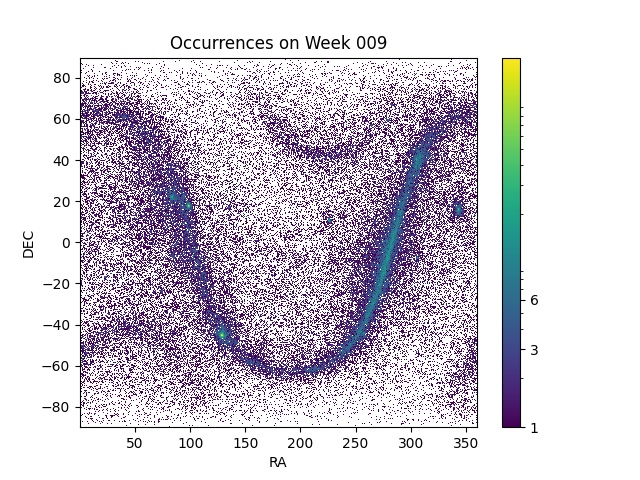
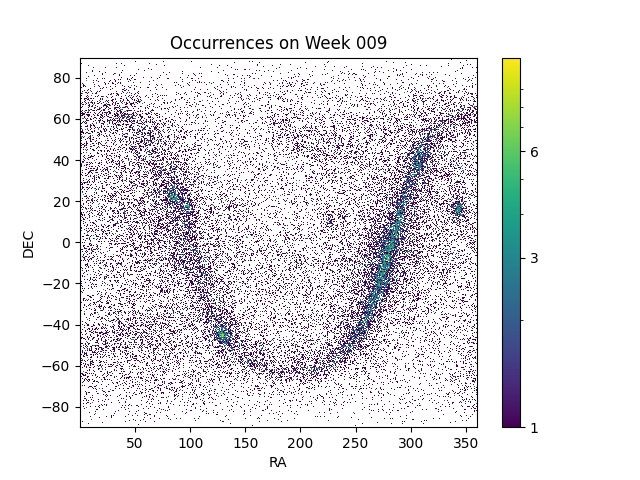
FINAL STUFFS!!!!

diff --git a/astronomy.py b/astronomy.py
@@ -109,7 +109,7 @@ def procedural_gen_full(start_week, end_week, energy_start, energy_end):
         #myTable.remove_rows()
         full_evt_data.append(my_table)  # add opened table to collection
         hist_plot_occurrences(my_table, i,my_weights)
-        energy_hist(my_table, i,my_weights)
+        energy_hist(my_table, i, my_weights)
     # now that those are done, we can do it for the full image
     concat_table = vstack(full_evt_data)
     hist_plot_occurrences(concat_table, -1,full_weights)
@@ -128,66 +128,75 @@ def hist_plot_occurrences(evt_data, i, my_weights):
     img_zero_mpl = plt.hist2d(evt_data['RA'][ii], evt_data['DEC'][ii], nbins, cmap='viridis', norm=LogNorm(), weights=np.ceil(np.tanh(my_weights)))
     cbar = plt.colorbar(ticks=[1.0, 3.0, 6.0])
     cbar.ax.set_yticklabels(['1', '3', '6'])
-    if i < 0:
-        save_title = f"OccurrenceWeighted_RADEC_weeks_{int_to_string(start_week)}_to_{int_to_string(end_week)}"
-        plt.title(f"Occurrence Weighted Time Averaged from week {int_to_string(my_start_week)} to {int_to_string(my_end_week)}")
-    else:
-        save_title = f"OccurrenceWeighted_RADEC_week_{int_to_string(i)}"
-        plt.title("Occurrence Weighted - week " + int_to_string(i))
     plt.xlabel('RA')
     plt.ylabel('DEC')
-    plt.savefig(fname=str(Path().absolute())+f"\\outputs\\{save_title}.svg",format='svg')
-    #plt.show()
+    if i < 0:
+        save_title = f"Occurrence-RADEC-weeks-{int_to_string(start_week)}-to-{int_to_string(end_week)}"
+        plt.title(f"Occurrences on Weeks{int_to_string(my_start_week)} to {int_to_string(my_end_week)}")
+        plt.savefig(fname=str(Path().absolute()) + f"\\Occurrence-avgs\\{save_title}.jpg", format='jpg')
+    else:
+        save_title = f"Occurrence-RADEC-week-{int_to_string(i)}"
+        plt.title("Occurrences on Week " + int_to_string(i))
+        plt.savefig(fname=str(Path().absolute()) + f"\\Occurrence-singles\\{save_title}.jpg", format='jpg')
+    plt.show()
+
     fig, ax = plt.subplots(1)
     img_one_mpl = plt.hist2d(evt_data['L'][ii], evt_data['B'][ii], nbins, cmap='viridis', norm=LogNorm(), weights=np.ceil(np.tanh(my_weights)))
     cbar = plt.colorbar(ticks=[1.0, 3.0, 6.0])
     cbar.ax.set_yticklabels(['1', '3', '6'])
-    if i < 0:
-        save_title = f"OccurrenceWeighted_LB_weeks_{int_to_string(start_week)}_to_{int_to_string(end_week)}"
-        plt.title(f"Occurrence Weighted Time from week {int_to_string(start_week)} to {int_to_string(end_week)}")
-    else:
-        save_title = f"OccurrenceWeighted_LB_week_{int_to_string(i)}"
-        plt.title("Occurrence Weighted - week" + int_to_string(i))
     plt.xlabel('L')
     plt.ylabel('B')
-    plt.savefig(fname=str(Path().absolute()) + f"\\outputs\\{save_title}.svg", format='svg')
-    #plt.show()
+    if i < 0:
+        save_title = f"Occurrence-LB-weeks-{int_to_string(start_week)}-to-{int_to_string(end_week)}"
+        plt.title(f"OccurrenceWeeks: {int_to_string(start_week)}-to-{int_to_string(end_week)}")
+        plt.savefig(fname=str(Path().absolute()) + f"\\Occurrence-avgs\\{save_title}.jpg", format='jpg')
+    else:
+        save_title = f"Occurrence-LB-week-{int_to_string(i)}"
+        plt.title("Occurrences on Week " + int_to_string(i))
+        plt.savefig(fname=str(Path().absolute()) + f"\\Occurrence-singles\\{save_title}.jpg", format='jpg')
+    #plt.savefig(fname=str(Path().absolute()) + f"\\outputs\\{save_title}.svg", format='svg')
+    plt.show()
 
 
 def energy_hist(evt_data, i, my_weights):
     # uses the sum of energy to create a scatter plot with the scaling being the current event_data/sum
-    sum_energy = sum(evt_data['ENERGY'])
+    sum_energy = sum(my_weights)
     # print (sum_energy)
     nbins = (500, 500)
     fig, ax = plt.subplots(1)
     ii = np.in1d(evt_data['CONVERSION_TYPE'], [0, 1])
     img_two_mpl = plt.hist2d(evt_data['RA'][ii], evt_data['DEC'][ii],nbins,cmap='cividis', weights=my_weights/sum_energy, norm=LogNorm())
-    # cbar = plt.colorbar(ticks=[1.0, 3.0, 6.0])
-    # cbar.ax.set_yticklabels(['1', '3', '6'])
-    if i < 0:
-        save_title = f"EnergyWeighted_RADEC_weeks_{int_to_string(start_week)}_to_{int_to_string(end_week)}"
-        plt.title(save_title := f"Energy Weighted Averaged from week {int_to_string(start_week)} to {int_to_string(end_week)}")
-    else:
-        save_title = f"OccurrenceWeighted_RADEC_week_{int_to_string(i)}"
-        plt.title(save_title := "Energy Weighted - week" + int_to_string(i))
+    cbar = plt.colorbar(ticks=[1.0, 3.0, 6.0])
+    cbar.ax.set_yticklabels(['1', '3', '6'])
     plt.xlabel('RA')
     plt.ylabel('DEC')
-    plt.savefig(fname=str(Path().absolute()) + f"\\outputs\\{save_title}.svg", format='svg')
-    #plt.show()
+    if i < 0:
+        print("Making RADEC averages for energy")
+        save_title = f"Energy-RADEC-weeks-{int_to_string(start_week)}-to-{int_to_string(end_week)}"
+        plt.title(f"Energy Weighted Averaged Weeks: {int_to_string(start_week)} to {int_to_string(end_week)}")
+        plt.savefig(fname=str(Path().absolute()) + f"\\Energy-avgs\\{save_title}.jpg", format='jpg')
+    else:
+        print(f"making SINGLES RADEC energy week {i}")
+        save_title = f"Energy-RADEC-week-{int_to_string(i)}"
+        plt.title("Energy Weighted - week: " + int_to_string(i))
+        plt.savefig(fname=str(Path().absolute()) + f"\\Energy-singles\\{save_title}.jpg", format='jpg')
+    #plt.savefig(fname=str(Path().absolute()) + f"\\outputs\\{save_title}.svg", format='svg')
+    plt.show()
     fig, ax = plt.subplots(1)
     img_three_mpl = plt.hist2d(evt_data['L'][ii], evt_data['B'][ii],nbins,cmap='cividis', weights=my_weights/sum_energy,norm=LogNorm())
-    # cbar = plt.colorbar(ticks=[1.0, 3.0, 6.0])
-    # cbar.ax.set_yticklabels(['1', '3', '6'])
-    if i < 0:
-        save_title = f"EnergyWeighted_LB_weeks_{int_to_string(start_week)}_to_{int_to_string(end_week)}"
-        plt.title(save_title := f"Energy Weighted, Time Averaged from week {int_to_string(start_week)} to {int_to_string(end_week)}")
-    else:
-        save_title = f"OccurrenceWeighted_LB_week_{int_to_string(i)}"
-        plt.title(save_title := "Energy Weighted,lat_photon_weekly_w" + int_to_string(i) + "_p305_v001.fits")
+    cbar = plt.colorbar(ticks=[1.0, 3.0, 6.0])
+    cbar.ax.set_yticklabels(['1', '3', '6'])
     plt.xlabel('L')
     plt.ylabel('B')
-    plt.savefig(fname=str(Path().absolute()) + f"\\outputs\\{save_title}.svg", format='svg')
-    #plt.show()
-
-
-
+    if i < 0:
+        #print("making averages energy LB")
+        save_title = f"Energy-LB-weeks-{int_to_string(start_week)}-to-{int_to_string(end_week)}"
+        plt.title(f"Energy Weighted Averaged Weeks: {int_to_string(start_week)} to {int_to_string(end_week)}")
+        plt.savefig(fname=str(Path().absolute()) + f"\\Energy-avgs\\{save_title}.jpg", format='jpg')
+    else:
+        #print(f"making SINGLES LB energy week {i}")
+        save_title = f"Energy-LB-week-{int_to_string(i)}"
+        plt.title("Energy Weighted - week: " + int_to_string(i))
+        plt.savefig(fname=str(Path().absolute()) + f"\\Energy-singles\\{save_title}.jpg", format='jpg')
+    #plt.savefig(fname=str(Path().absolute()) + f"\\outputs\\{save_title}.svg", format='svg')
+    plt.show()
